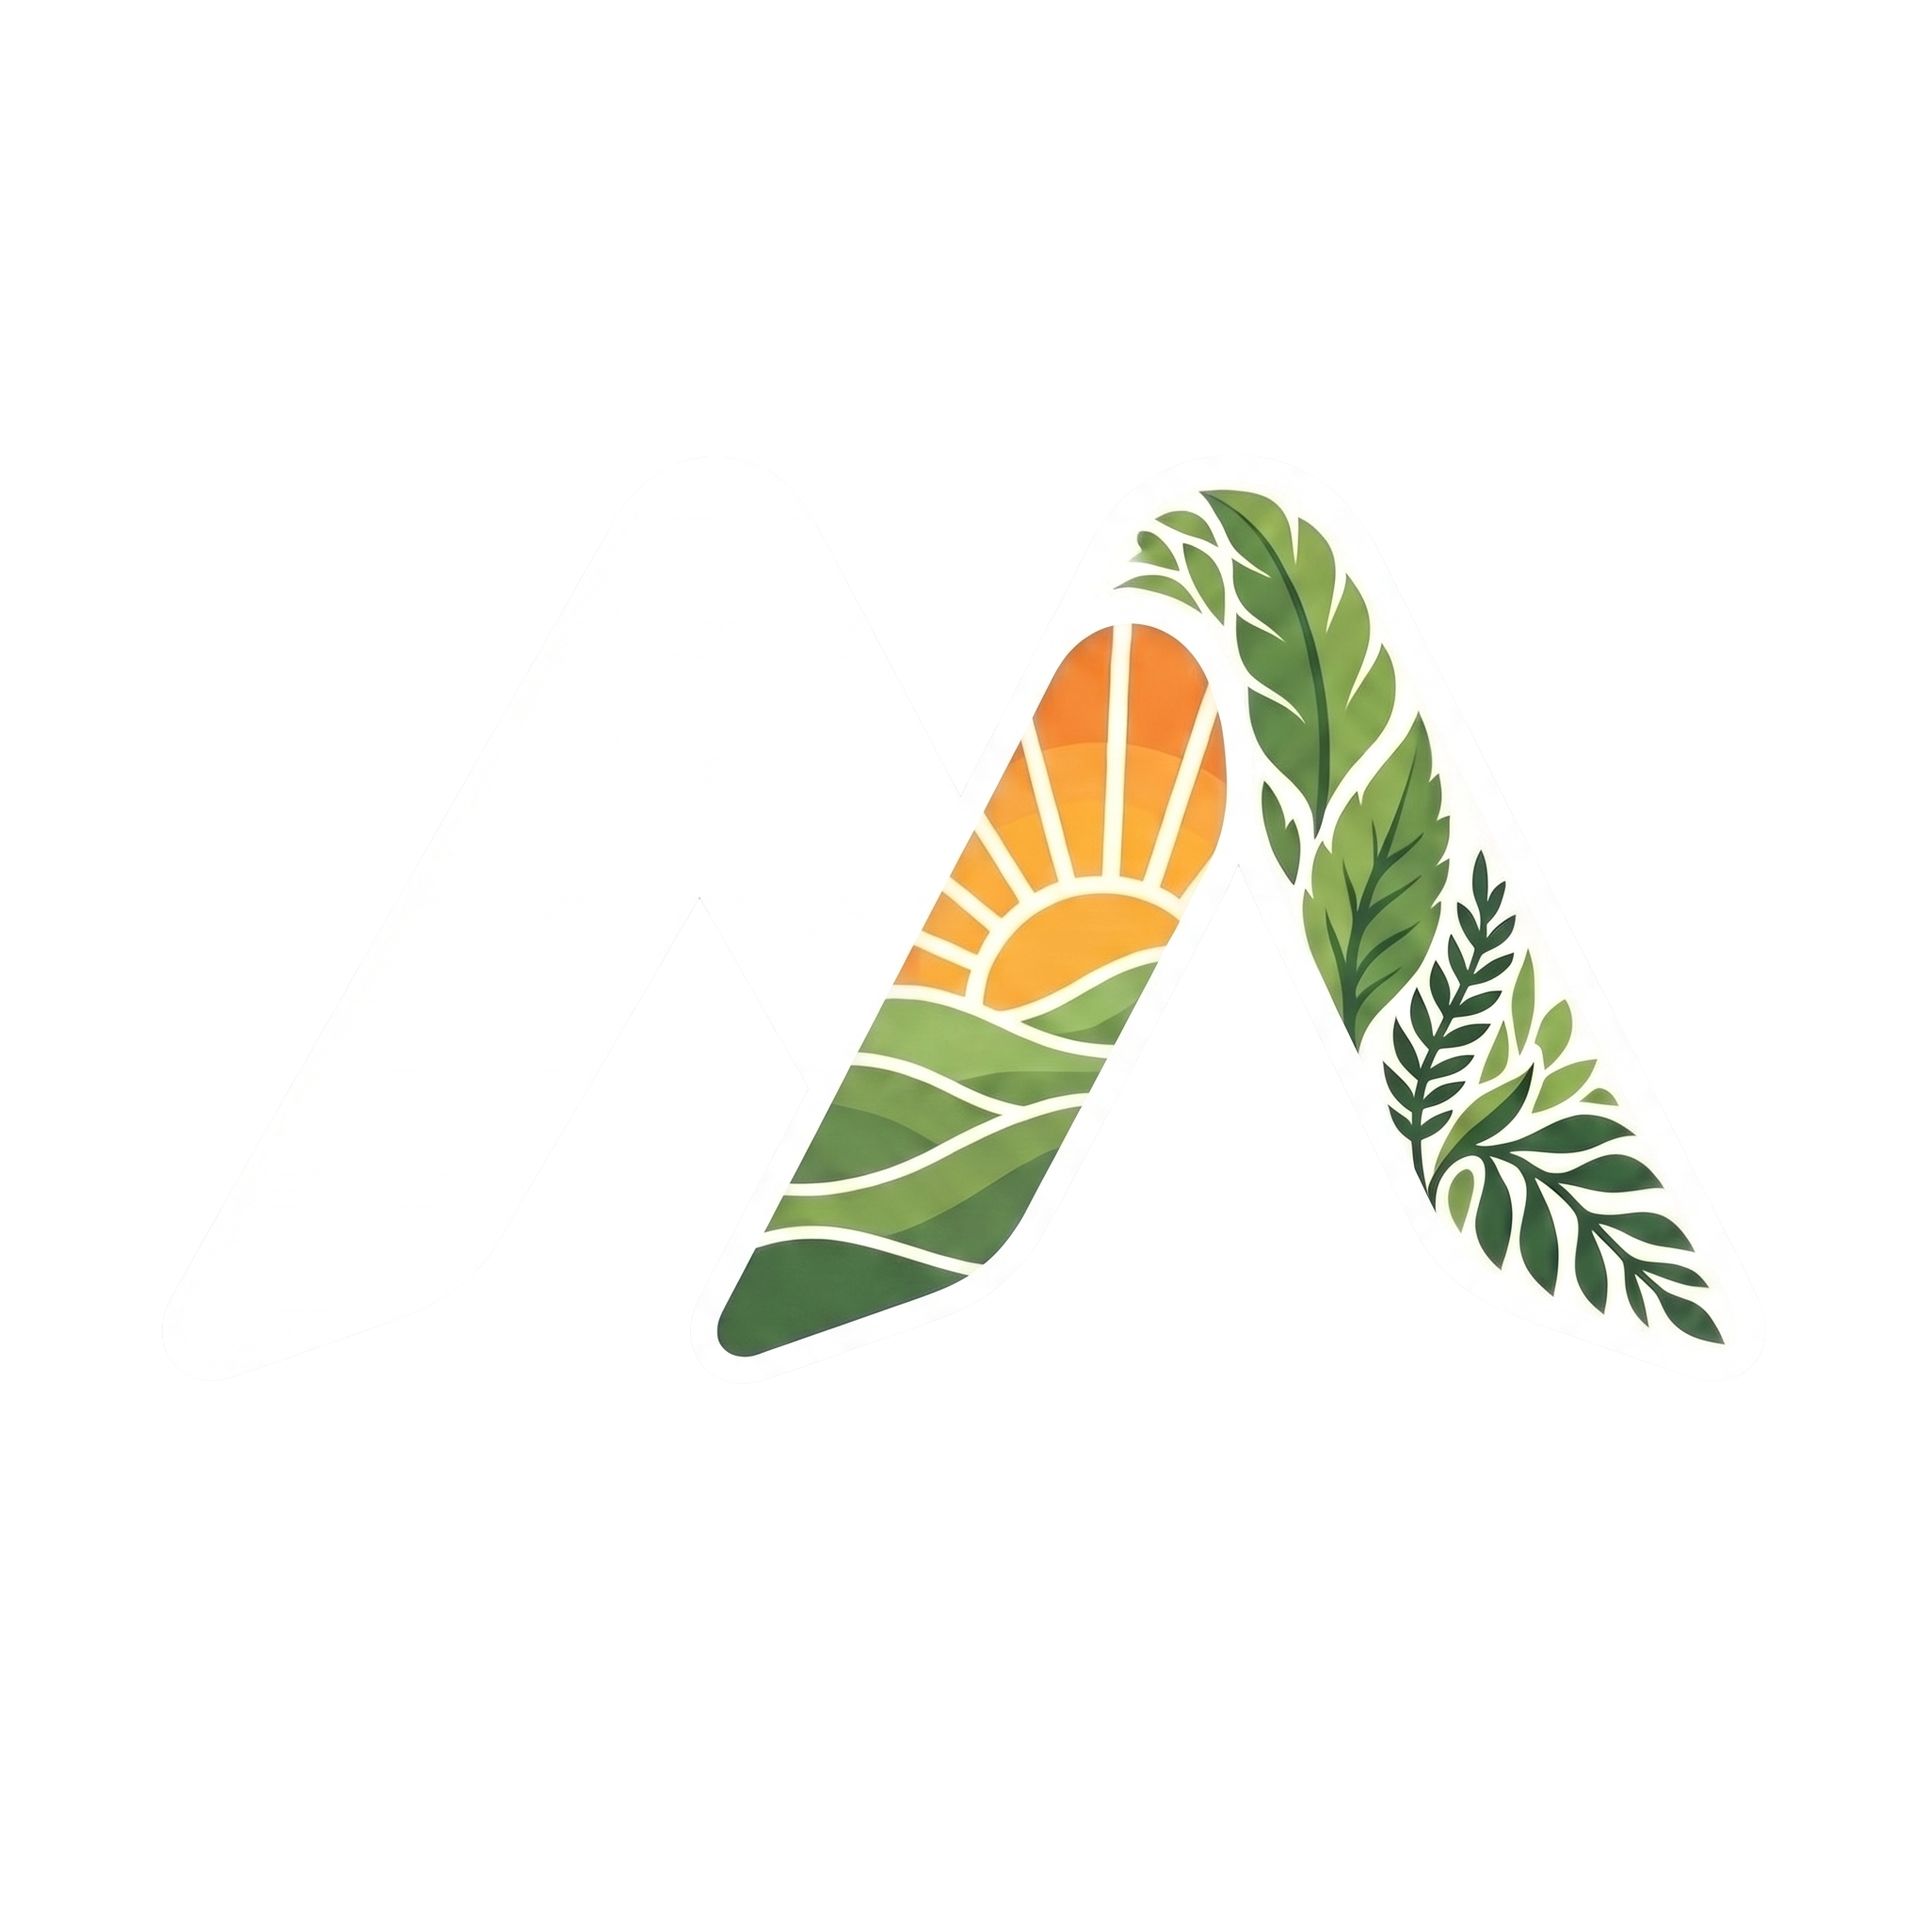
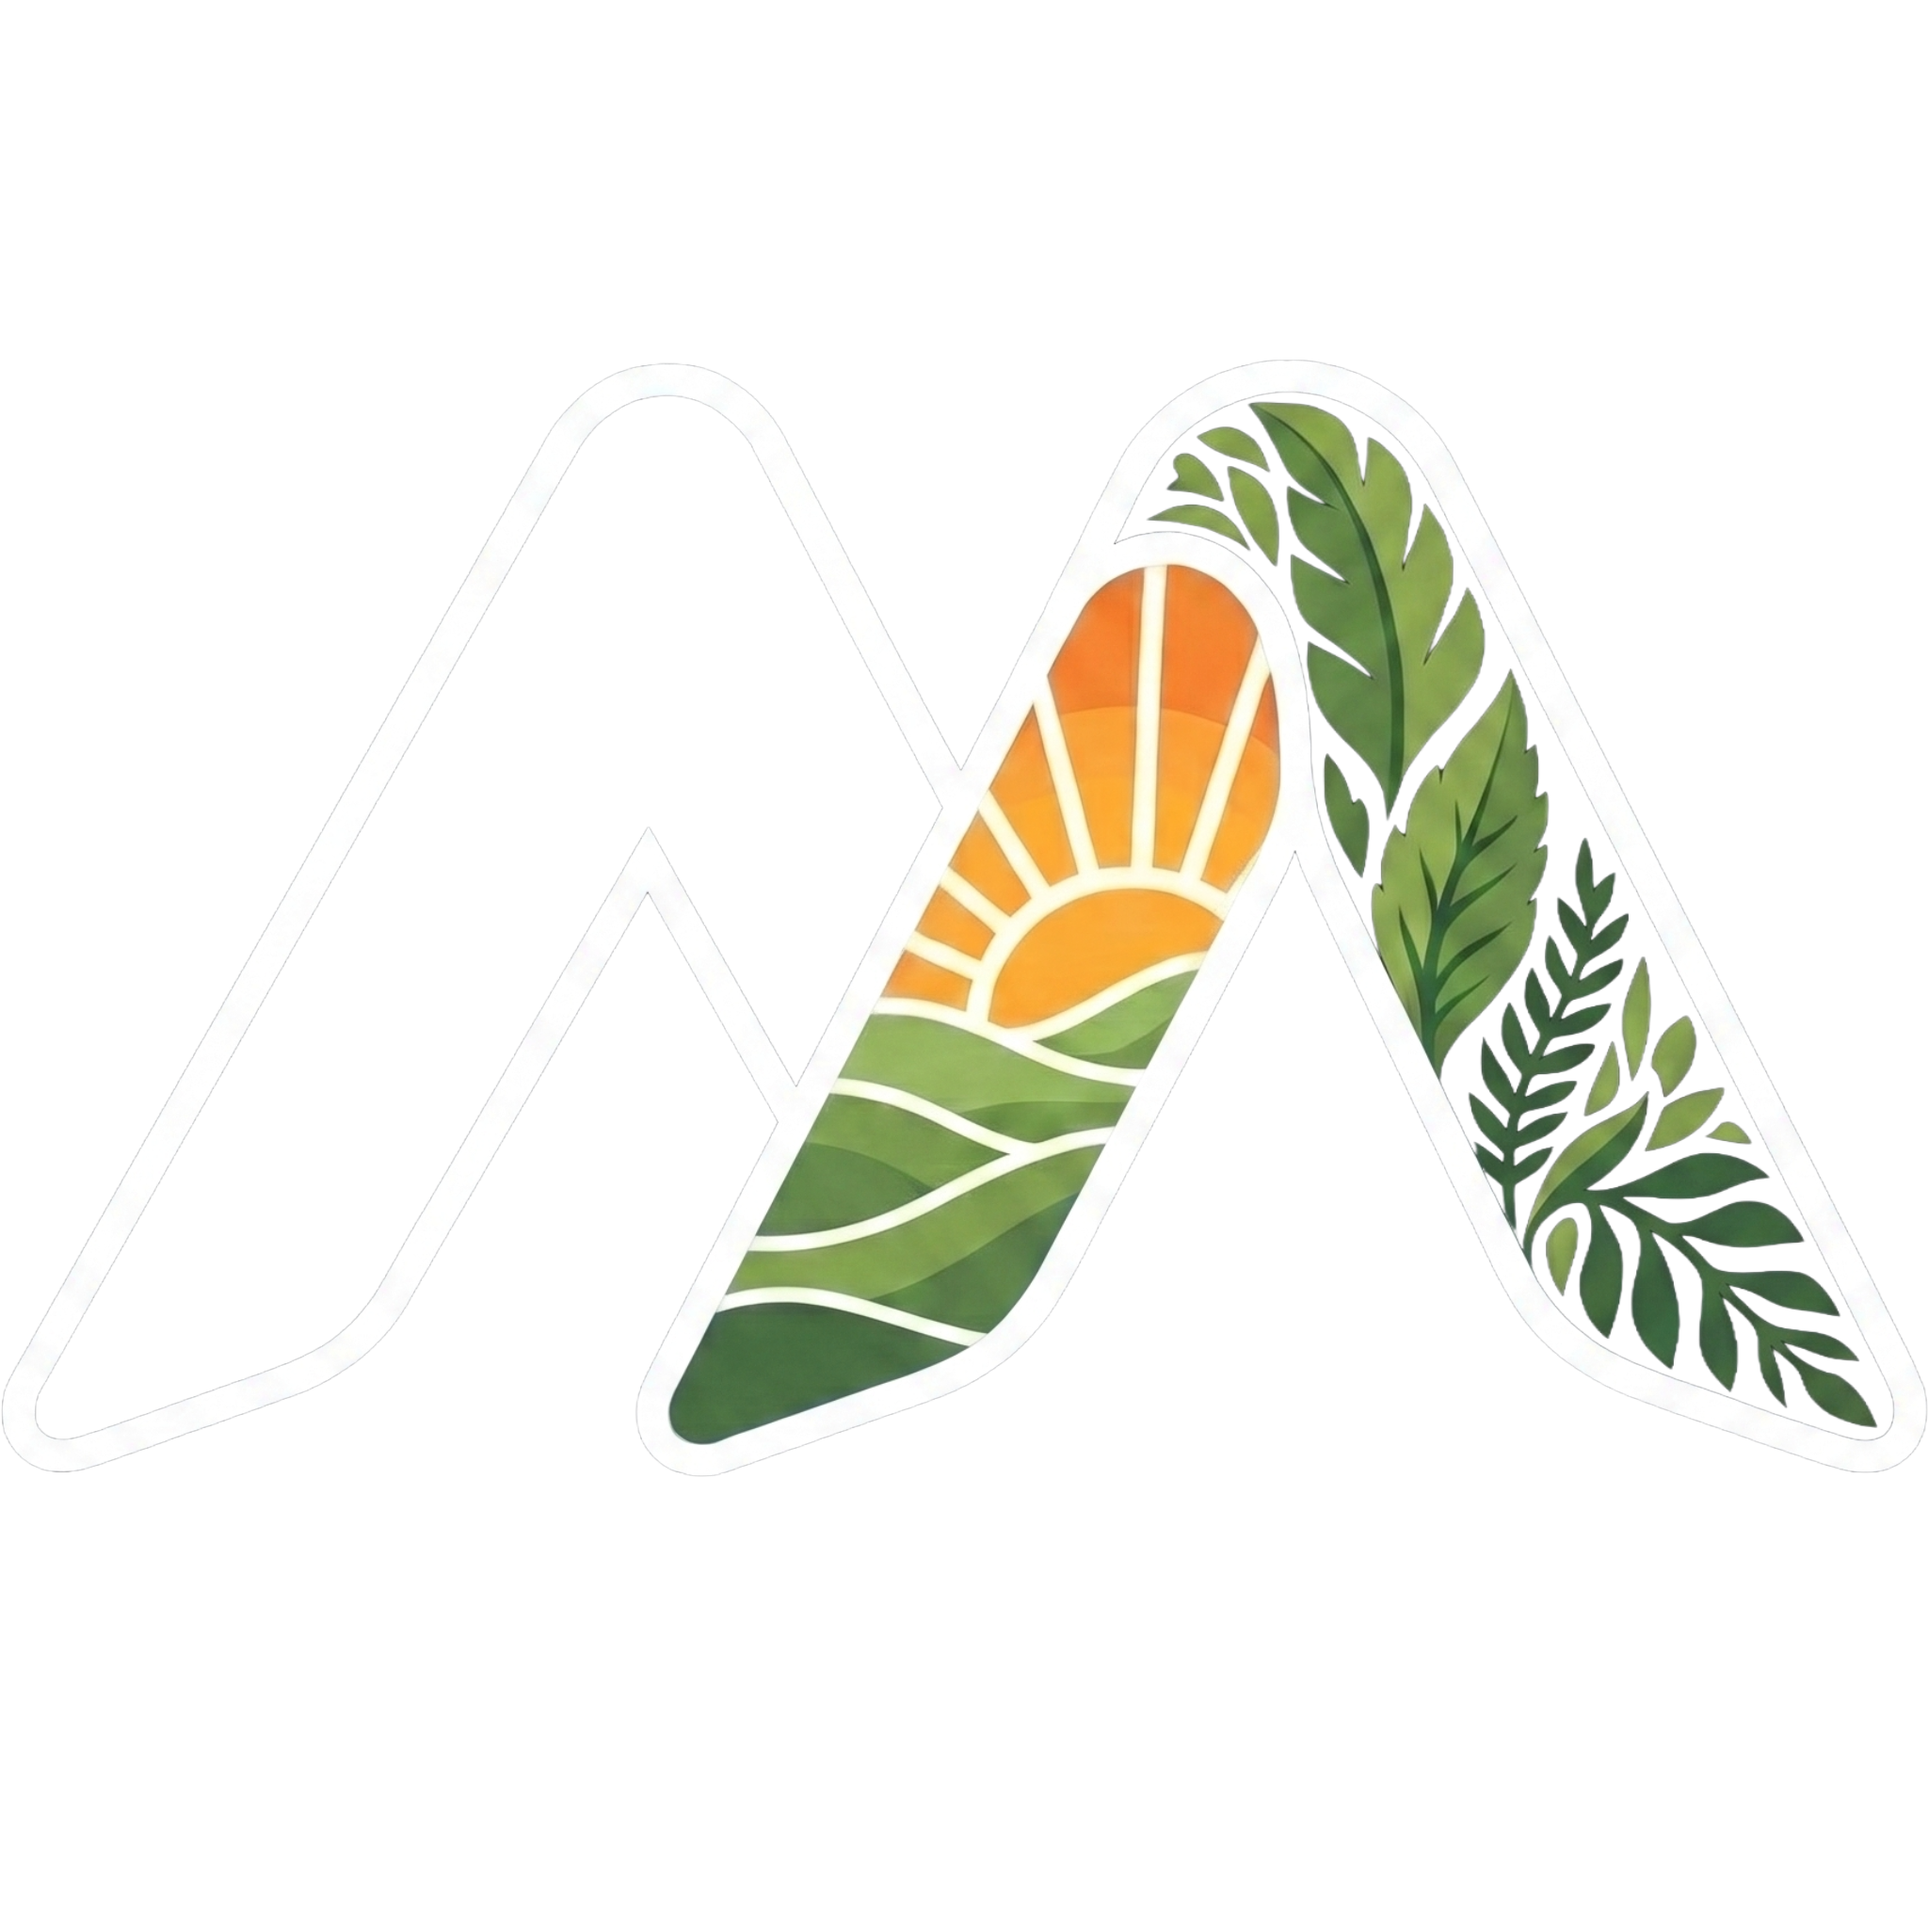
brand: keep the counters open in the reversed mark
The first dark master filled the left stroke solid white to guarantee it read
on navy. It did read, but at 40px the white mass outweighed the two illustrated
strokes and the letter stopped looking like the light version.

This one only flips the outline to white and leaves the counters transparent,
exactly as the light master does. Silhouette overlap with the light master goes
from 68% to 86%, so the two now read as one mark in two colourways rather than
two drawings. The white outline still carries enough contrast against the
footer navy and the glass header on its own.

Changed region(s): [[0.3438, 0.1875, 0.9688, 0.75]]

diff --git a/components/ui/Logo.tsx b/components/ui/Logo.tsx
@@ -4,8 +4,9 @@ import { ScrollTopLink } from "@/components/ui/ScrollTopLink";
 import styles from "./Logo.module.scss";
 
 // MİNADA markası: çift-M, orta kolda güneş, sağ kolda yapraklar.
-// İki dosya var çünkü sol kol açık zeminde ince konturdan ibaret ve lacivert
-// footer'da kayboluyordu. Koyu sürümde kontur beyaz ve sol kolun içi dolu.
+// İki dosya var çünkü kontur açık zeminde lacivert ve koyu zeminde kayboluyordu.
+// Koyu sürümde kontur beyaza dönüyor, boşluklar iki sürümde de açık kalıyor;
+// harfin karakteri böyle korunuyor.
 // tone="adaptive" header için: hero fotoğrafının üstünde koyu, sayfa kayıp pill
 // açık zemine dönünce açık sürüm devreye giriyor (CSS, HeaderShell'in
 // [data-scrolled] niteliği üzerinden).

diff --git a/docs/brand/README.md b/docs/brand/README.md
@@ -6,10 +6,11 @@ Türetilmiş dosyaları yeniden üretmen gerekirse kaynak burada.
 | Dosya | Ne |
 |---|---|
 | `minada-mark-master.png` | 2048², alfalı. **Açık zemin sürümü**: lacivert kontur, sol kol açık kontur. |
-| `minada-mark-on-dark-master.png` | 2048², alfalı. **Koyu zemin sürümü**: krem kontur, sol kolun içi dolu beyaz. |
+| `minada-mark-on-dark-master.png` | 2048², alfalı. **Koyu zemin sürümü**: kontur beyaza dönüyor, boşluklar açık sürümdeki gibi saydam kalıyor. |
 | `minada-lockup-master.jpg` | 2000², beyaz zemin. Marka + MİNADA yazısı + "Enerji - Mühendislik". Yazılı kilide ihtiyaç olursa. |
 
-İki usta **aynı geometride** (kırpılmış bbox 1704×991 ve 1705×988, oran farkı %0.4).
+İki usta **aynı geometride** (kırpılmış oran 1.719 ve 1.725, fark %0.3; siluet
+örtüşmesi %86).
 Header açık↔koyu geçişinde logo yerinden oynamasın diye bu şart; yeni bir varyant
 üretilirse aynı ölçüyle doğrulanmalı.
 
@@ -34,6 +35,9 @@ her sayfada ham servis edildiği için boyut orada gerçekten önemli.
 `adaptive` iki görseli de basar, CSS `HeaderShell`'in `[data-scrolled]` niteliğine
 bakarak birini gizler. Header `adaptive`, Footer `dark`, mobil menü varsayılan
 (drawer zemini `var(--bg)`, yani açık).
+
+Sol kolun içini dolduran bir koyu varyant da denendi ve **elendi**: 40px'te
+beyaz kütle harfin dengesini bozup illüstrasyonlu kolları ikinci plana atıyordu.
 
 Marka 30px'te okunmuyordu — yaprak damarları ve güneş ışınları piksel altına
 düşüyordu. **40px**'e çıkarıldı; header pill'i 66px ve en uzun elemanı 44px CTA
